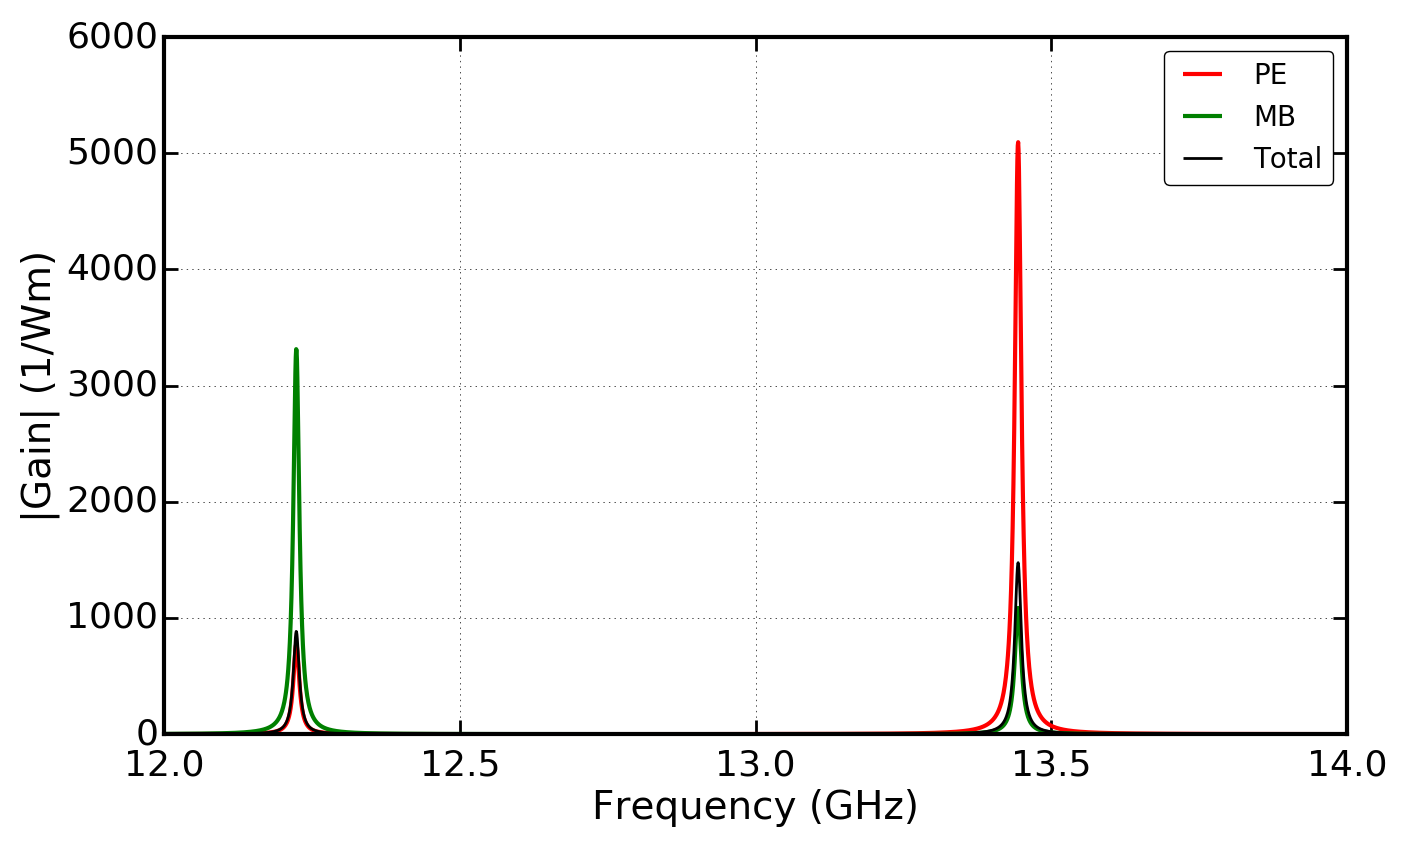
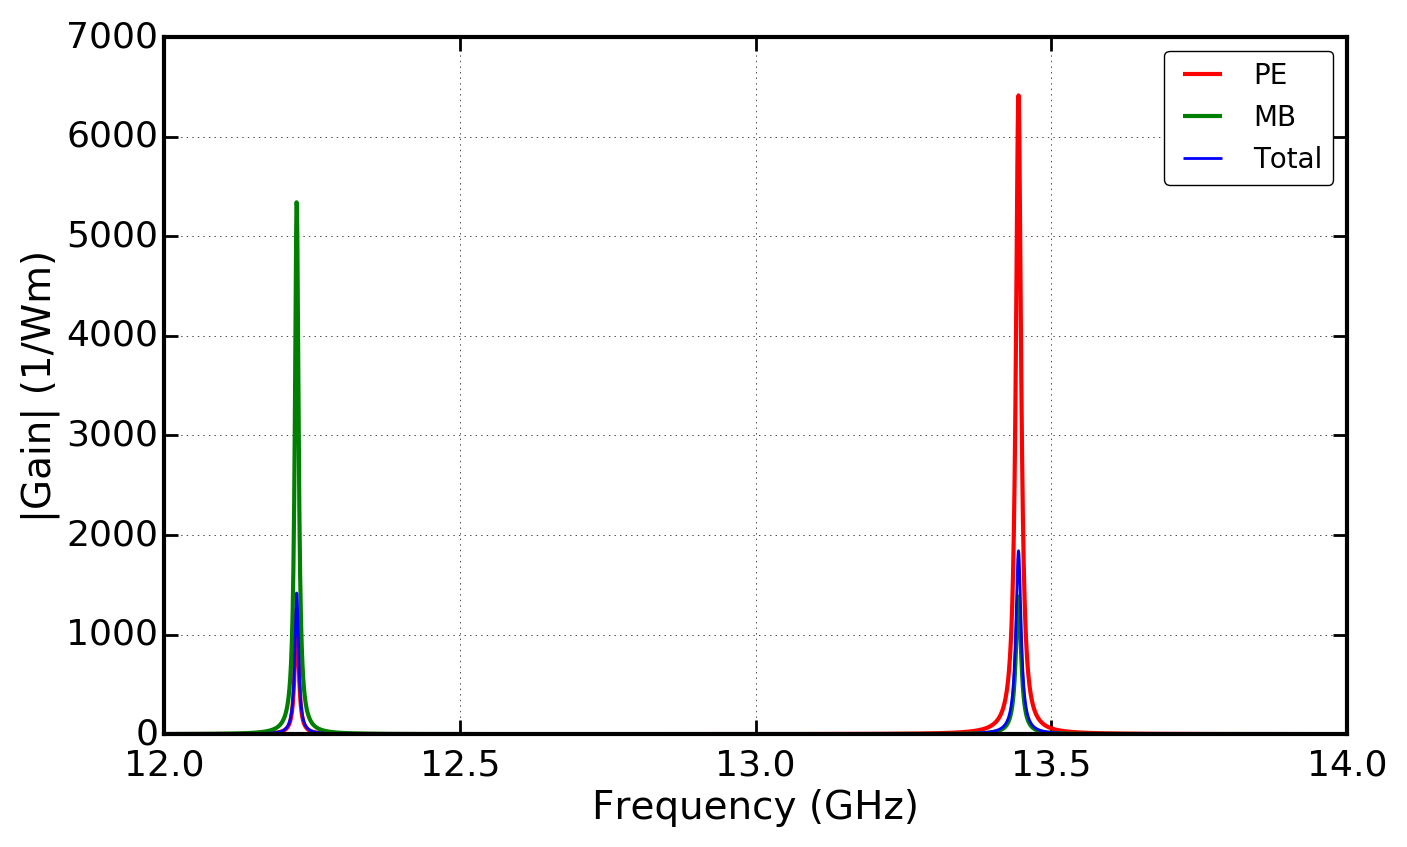
Added use of python integration and comsol data to tut_02.

diff --git a/tutorials/simo-tut_02-gain_spectra-npsave.py b/tutorials/simo-tut_02-gain_spectra-npsave.py
@@ -4,6 +4,9 @@
     Show how to save simulation objects 
     (eg. EM mode calcs) to expedite the process 
     of altering later parts of simulations.
+
+    Show how to implement integrals in python
+    and how to load data from Comsol.
 """
 
 import time
@@ -46,7 +49,7 @@ prefix_str = 'tut_02-'
 wguide = objects.Struct(unitcell_x,inc_a_x,unitcell_y,inc_a_y,inc_shape,
                         material_bkg=materials.Vacuum,
                         material_a=materials.Si_2016_Smith,
-                        lc_bkg=3, lc2=2000.0, lc3=1000.0)
+                        lc_bkg=2, lc2=200.0, lc3=5.0)
 
 
 # Expected effective index of fundamental guided mode.
@@ -72,15 +75,15 @@ np.savez('wguide_data2', sim_EM_Stokes=sim_EM_Stokes)
 # Print the wavevectors of EM modes.
 print('k_z of EM modes \n', np.round(np.real(sim_EM_pump.Eig_values), 4))
 
-# Plot the E fields of the EM modes fields - specified with EM_AC='EM_E'.
-# Zoom in on the central region (of big unitcell) with xlim_, ylim_ args.
-# Only plot fields of fundamental (ival = 0) mode.
-plotting.plt_mode_fields(sim_EM_pump, xlim_min=0.4, xlim_max=0.4, ylim_min=0.4,
-                         ylim_max=0.4, ivals=[0], contours=True, EM_AC='EM_E', 
-                         prefix_str=prefix_str)
-# Plot the H fields of the EM modes - specified with EM_AC='EM_H'.
-plotting.plt_mode_fields(sim_EM_pump, xlim_min=0.4, xlim_max=0.4, ylim_min=0.4,
-                         ylim_max=0.4, ivals=[0], EM_AC='EM_H', prefix_str=prefix_str)
+# # Plot the E fields of the EM modes fields - specified with EM_AC='EM_E'.
+# # Zoom in on the central region (of big unitcell) with xlim_, ylim_ args.
+# # Only plot fields of fundamental (ival = 0) mode.
+# plotting.plt_mode_fields(sim_EM_pump, xlim_min=0.4, xlim_max=0.4, ylim_min=0.4,
+#                          ylim_max=0.4, ivals=[0], contours=True, EM_AC='EM_E', 
+#                          prefix_str=prefix_str)
+# # Plot the H fields of the EM modes - specified with EM_AC='EM_H'.
+# plotting.plt_mode_fields(sim_EM_pump, xlim_min=0.4, xlim_max=0.4, ylim_min=0.4,
+#                          ylim_max=0.4, ivals=[0], EM_AC='EM_H', prefix_str=prefix_str)
 
 # Calculate the EM effective index of the waveguide.
 n_eff_sim = np.real(sim_EM_pump.Eig_values[0]*((wl_nm*1e-9)/(2.*np.pi)))
@@ -90,45 +93,61 @@ k_AC = np.real(sim_EM_pump.Eig_values[EM_ival_pump] - sim_EM_Stokes.Eig_values[E
 
 # Calculate Acoustic modes.
 sim_AC = wguide.calc_AC_modes(num_modes_AC, k_AC, EM_sim=sim_EM_pump)
-# Save calculated :Simmo: object for AC calculation.
-np.savez('wguide_data_AC', sim_AC=sim_AC)
+# # Save calculated :Simmo: object for AC calculation.
+# np.savez('wguide_data_AC', sim_AC=sim_AC)
 
 # npzfile = np.load('wguide_data_AC.npz')
 # sim_AC = npzfile['sim_AC'].tolist()
 
-# Print the frequencies of AC modes.
-print('Freq of AC modes (GHz) \n', np.round(np.real(sim_AC.Eig_values)*1e-9, 4))
+# # Print the frequencies of AC modes.
+# print('Freq of AC modes (GHz) \n', np.round(np.real(sim_AC.Eig_values)*1e-9, 4))
 
-# Plot the AC modes fields, important to specify this with EM_AC='AC'.
-# The AC modes are calculated on a subset of the full unitcell,
-# which excludes vacuum regions, so no need to restrict area plotted.
-# We want to get pdf files so set pdf_png='pdf' 
-# (default is png as these are easier to flick through).
-plotting.plt_mode_fields(sim_AC, EM_AC='AC', pdf_png='pdf', contours=True, 
-                         prefix_str=prefix_str)
+# # Plot the AC modes fields, important to specify this with EM_AC='AC'.
+# # The AC modes are calculated on a subset of the full unitcell,
+# # which excludes vacuum regions, so no need to restrict area plotted.
+# # We want to get pdf files so set pdf_png='pdf' 
+# # (default is png as these are easier to flick through).
+# plotting.plt_mode_fields(sim_AC, EM_AC='AC', pdf_png='pdf', contours=True, 
+#                          prefix_str=prefix_str)
 
-# Do not calculate the acoustic loss from our fields, instead set a Q factor.
-set_q_factor = 1000.
-
+# Calculate the acoustic loss from our fields.
 # Calculate interaction integrals and SBS gain for PE and MB effects combined, 
 # as well as just for PE, and just for MB.
 SBS_gain, SBS_gain_PE, SBS_gain_MB, linewidth_Hz, Q_factors, alpha = integration.gain_and_qs(
-    sim_EM_pump, sim_EM_Stokes, sim_AC, k_AC,
-    EM_ival_pump=EM_ival_pump, EM_ival_Stokes=EM_ival_Stokes, AC_ival=AC_ival, 
-    fixed_Q=set_q_factor)
+    sim_EM_pump, sim_EM_Stokes, sim_AC, k_AC, EM_ival_pump=EM_ival_pump, 
+    EM_ival_Stokes=EM_ival_Stokes, AC_ival=AC_ival)
 # Save the gain calculation results
 np.savez('wguide_data_AC_gain', SBS_gain=SBS_gain, SBS_gain_PE=SBS_gain_PE, 
-            SBS_gain_MB=SBS_gain_MB, alpha=alpha)
+            SBS_gain_MB=SBS_gain_MB, linewidth_Hz=linewidth_Hz)
 
-# Once npz files have been saved from one simulation run,
-# the previous six lines can be commented and the following
-# five line uncommented. This provides precisely the same objects
-# for the remainder of the simulation.
+# # Once npz files have been saved from one simulation run,
+# # the previous six lines can be commented and the following
+# # five line uncommented. This provides precisely the same objects
+# # for the remainder of the simulation.
 # npzfile = np.load('wguide_data_AC_gain.npz')
 # SBS_gain = npzfile['SBS_gain']
 # SBS_gain_PE = npzfile['SBS_gain_PE']
 # SBS_gain_MB = npzfile['SBS_gain_MB']
 # linewidth_Hz = npzfile['linewidth_Hz']
+
+# The following function shows how integrals can be implemented purely in python,
+# which may be of interest to users wanting to calculate expressions not currently
+# included in NumBAT. Note that the Fortran routines are much faster!
+# Also shows how field data can be imported (in this case from Comsol) and used.
+comsol_ivals = 5 # Number of modes contained in data file.
+SBS_gain_PE_py, alpha_py, SBS_gain_PE_comsol, alpha_comsol = integration.gain_python(
+    sim_EM_pump, sim_EM_Stokes, sim_AC, k_AC, 'Comsol_ac_modes_1-5.dat', 
+    comsol_ivals=comsol_ivals)
+
+# Print the PE contribution to gain SBS gain of the AC modes.
+# Mask negligible gain values to improve clarity of print out.
+threshold = -1e-3
+masked_PE = np.ma.masked_inside(SBS_gain_PE[EM_ival_pump,EM_ival_Stokes,:comsol_ivals], 0, threshold)
+print("\n\nSBS_gain PE NumBAT default (Fortran)\n", masked_PE)
+masked = np.ma.masked_inside(SBS_gain_PE_py[EM_ival_pump,EM_ival_Stokes,:], 0, threshold)
+print("SBS_gain python integration routines \n", masked)
+masked = np.ma.masked_inside(SBS_gain_PE_comsol[EM_ival_pump,EM_ival_Stokes,:], 0, threshold)
+print("SBS_gain from loaded Comsol data \n", masked)
 
 # Construct the SBS gain spectrum, built from Lorentzian peaks of the individual modes.
 freq_min = np.real(sim_AC.Eig_values[0])*1e-9 - 2  # GHz

diff --git a/backend/integration.py b/backend/integration.py
@@ -151,7 +151,7 @@ def gain_and_qs(sim_EM_pump, sim_EM_Stokes, sim_AC, k_AC,
         if el_typ+1 in sim_AC.typ_el_AC:
             relevant_eps_effs.append(sim_EM_pump.n_list[el_typ]**2)
 
-    print("\n -----------------------------------------------")
+    print("\n-----------------------------------------------")
     if fixed_Q is None:
         # Calc alpha (loss) Eq. 45
         print("Acoustic loss calc")
@@ -744,7 +744,7 @@ def grid_integral(relevant_eps_effs, sim_AC_structure, sim_AC_Omega_AC,
     return energy_py, alpha_py, Q_PE_py
 
 
-def gain_python(sim_EM_pump, sim_EM_Stokes, sim_AC, k_AC):
+def gain_python(sim_EM_pump, sim_EM_Stokes, sim_AC, k_AC, comsol_data_file, comsol_ivals=1):
     """ Calculate interaction integrals and SBS gain in python.
     """
 
@@ -761,15 +761,14 @@ def gain_python(sim_EM_pump, sim_EM_Stokes, sim_AC, k_AC):
         if el_typ+1 in sim_AC.typ_el_AC:
             relevant_eps_effs.append(sim_EM_pump.n_list[el_typ]**2)
 
-    energy_py = np.zeros(len(sim_AC.Eig_values), dtype=np.complex128)
-    alpha_py = np.zeros(len(sim_AC.Eig_values))
-    Q_PE_py = np.zeros((len(sim_EM_pump.Eig_values),len(sim_EM_Stokes.Eig_values),len(sim_AC.Eig_values)), dtype=np.complex128)
-    energy_comsol = np.zeros(len(sim_AC.Eig_values), dtype=np.complex128)
-    alpha_comsol = np.zeros(len(sim_AC.Eig_values))
-    Q_PE_comsol = np.zeros((len(sim_EM_pump.Eig_values),len(sim_EM_Stokes.Eig_values),len(sim_AC.Eig_values)), dtype=np.complex128)
+    energy_py = np.zeros(comsol_ivals, dtype=np.complex128)
+    alpha_py = np.zeros(comsol_ivals)
+    Q_PE_py = np.zeros((len(sim_EM_pump.Eig_values),len(sim_EM_Stokes.Eig_values),comsol_ivals), dtype=np.complex128)
+    energy_comsol = np.zeros(comsol_ivals, dtype=np.complex128)
+    alpha_comsol = np.zeros(comsol_ivals)
+    Q_PE_comsol = np.zeros((len(sim_EM_pump.Eig_values),len(sim_EM_Stokes.Eig_values),comsol_ivals), dtype=np.complex128)
 
-    # for AC_ival in range(len(sim_AC.Eig_values)): # For all AC modes
-    for AC_ival in range(5): # Comsol data only contains first 5 AC modes
+    for AC_ival in range(comsol_ivals): # Comsol data only contains some AC modes
         # Interpolate NumBAT FEM fields onto grid
         n_pts_x, n_pts_y, dx, dy, E_mat_p, E_mat_S, u_mat, del_u_mat, del_u_mat_star = py_fields(
             sim_EM_pump, sim_EM_Stokes, sim_AC, k_AC,
@@ -781,7 +780,7 @@ def gain_python(sim_EM_pump, sim_EM_Stokes, sim_AC, k_AC):
                 E_mat_p, E_mat_S, u_mat, del_u_mat, del_u_mat_star, AC_ival)
 
         # Load Comsol FEM fields onto grid - acoustic displacement fields
-        x_coord, y_coord, u_mat_comsol = comsol_fields('ac_mode_1-5.dat', n_points_comsol_data, ival=AC_ival)
+        x_coord, y_coord, u_mat_comsol = comsol_fields(comsol_data_file, n_points_comsol_data, ival=AC_ival)
         dx_comsol = x_coord[-1,0] - x_coord[-2,0]
         dy_comsol = y_coord[0,-1] - y_coord[0,-2]
         del_u_mat_comsol, del_u_mat_star_comsol = grad_u(dx, dy, u_mat_comsol, k_AC)
@@ -794,21 +793,21 @@ def gain_python(sim_EM_pump, sim_EM_Stokes, sim_AC, k_AC):
                 dx_comsol, dy_comsol, E_mat_p, E_mat_S, 
                 u_mat_comsol, del_u_mat_comsol, del_u_mat_star_comsol, AC_ival)
 
-
-    gain_py = 2*sim_EM_pump.omega_EM*sim_AC.Omega_AC*np.real(Q_PE_py*np.conj(Q_PE_py))
-    normal_fact_py = np.zeros((num_modes_EM, num_modes_EM, num_modes_AC), dtype=complex)
-    gain_comsol = 2*sim_EM_pump.omega_EM*sim_AC.Omega_AC*np.real(Q_PE_comsol*np.conj(Q_PE_comsol))
-    normal_fact_comsol = np.zeros((num_modes_EM, num_modes_EM, num_modes_AC), dtype=complex)
+    # Note this is only the PE contribution to gain.
+    gain_PE_py = 2*sim_EM_pump.omega_EM*sim_AC.Omega_AC[:comsol_ivals]*np.real(Q_PE_py*np.conj(Q_PE_py))
+    normal_fact_py = np.zeros((num_modes_EM, num_modes_EM, comsol_ivals), dtype=complex)
+    gain_PE_comsol = 2*sim_EM_pump.omega_EM*sim_AC.Omega_AC[:comsol_ivals]*np.real(Q_PE_comsol*np.conj(Q_PE_comsol))
+    normal_fact_comsol = np.zeros((num_modes_EM, num_modes_EM, comsol_ivals), dtype=complex)
     for i in range(num_modes_EM):
         P1 = sim_EM_pump.EM_mode_power[i]
         for j in range(num_modes_EM):
             P2 = sim_EM_Stokes.EM_mode_power[j]
-            for k in range(num_modes_AC):
+            for k in range(comsol_ivals):
                 P3_py = energy_py[k]
                 normal_fact_py[i, j, k] = P1*P2*P3_py*alpha_py[k]
                 P3_comsol = energy_comsol[k]
-                normal_fact_comsol[i, j, k] = P1_comsol*P2_comsol*P3_comsol*alpha_comsol[k]
-    SBS_gain_py = np.real(gain_py/normal_fact_py)
-    SBS_gain_comsol = np.real(gain_comsol/normal_fact_comsol)
+                normal_fact_comsol[i, j, k] = P1*P2*P3_comsol*alpha_comsol[k]
+    SBS_gain_PE_py = np.real(gain_PE_py/normal_fact_py)
+    SBS_gain_PE_comsol = np.real(gain_PE_comsol/normal_fact_comsol)
 
-    return SBS_gain_py, alpha_py, SBS_gain_comsol, alpha_comsol
+    return SBS_gain_PE_py, alpha_py, SBS_gain_PE_comsol, alpha_comsol

diff --git a/tutorials/simo-tut_01-first_calc.py b/tutorials/simo-tut_01-first_calc.py
@@ -86,11 +86,14 @@ sim_AC = wguide.calc_AC_modes(num_modes_AC, k_AC, EM_sim=sim_EM_pump)
 # Print the frequencies of AC modes.
 print('\n Freq of AC modes (GHz) \n', np.round(np.real(sim_AC.Eig_values)*1e-9, 4))
 
+# Do not calculate the acoustic loss from our fields, instead set a Q factor.
+set_q_factor = 1000.
+
 # Calculate interaction integrals and SBS gain for PE and MB effects combined, 
 # as well as just for PE, and just for MB. Also calculate acoustic loss alpha.
 SBS_gain, SBS_gain_PE, SBS_gain_MB, linewidth_Hz, Q_factors, alpha = integration.gain_and_qs(
-    sim_EM_pump, sim_EM_Stokes, sim_AC, k_AC,
-    EM_ival_pump=EM_ival_pump, EM_ival_Stokes=EM_ival_Stokes, AC_ival=AC_ival)
+    sim_EM_pump, sim_EM_Stokes, sim_AC, k_AC, EM_ival_pump=EM_ival_pump, 
+    EM_ival_Stokes=EM_ival_Stokes, AC_ival=AC_ival, fixed_Q=set_q_factor)
 # Print the Backward SBS gain of the AC modes.
 print("\n SBS_gain PE contribution \n", SBS_gain_PE[EM_ival_pump,EM_ival_Stokes,:])
 print("SBS_gain MB contribution \n", SBS_gain_MB[EM_ival_pump,EM_ival_Stokes,:])
